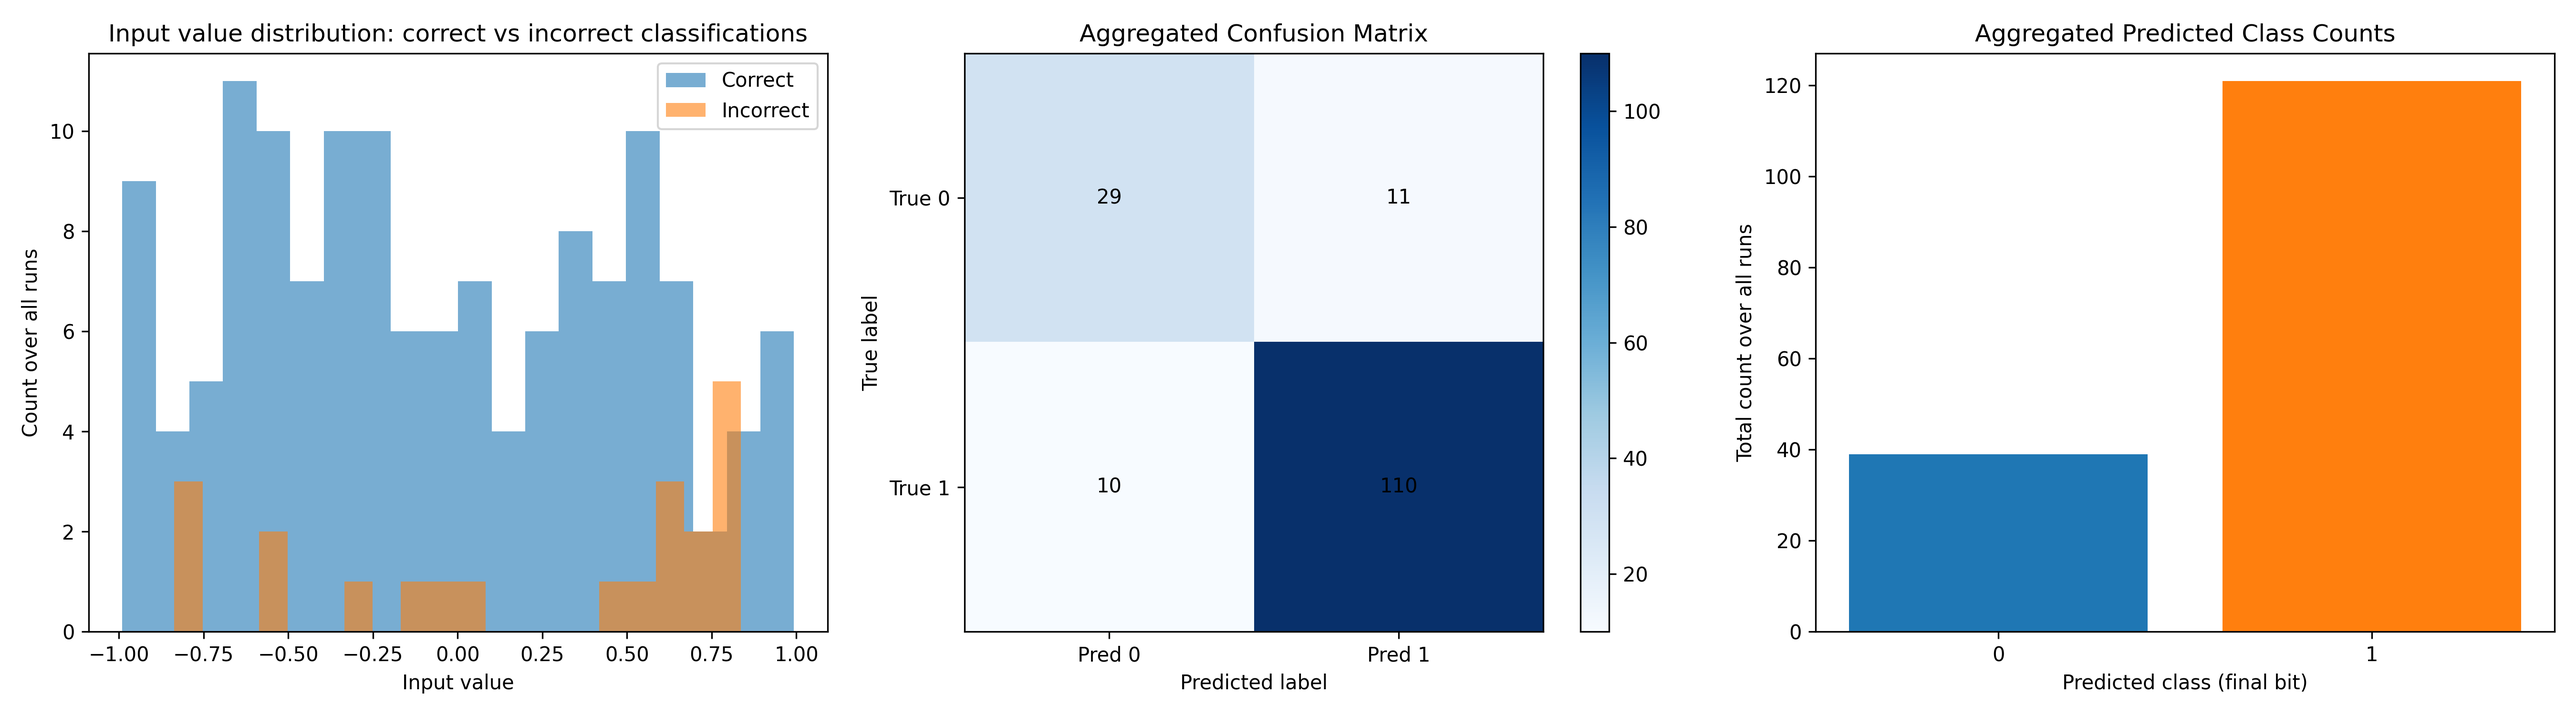
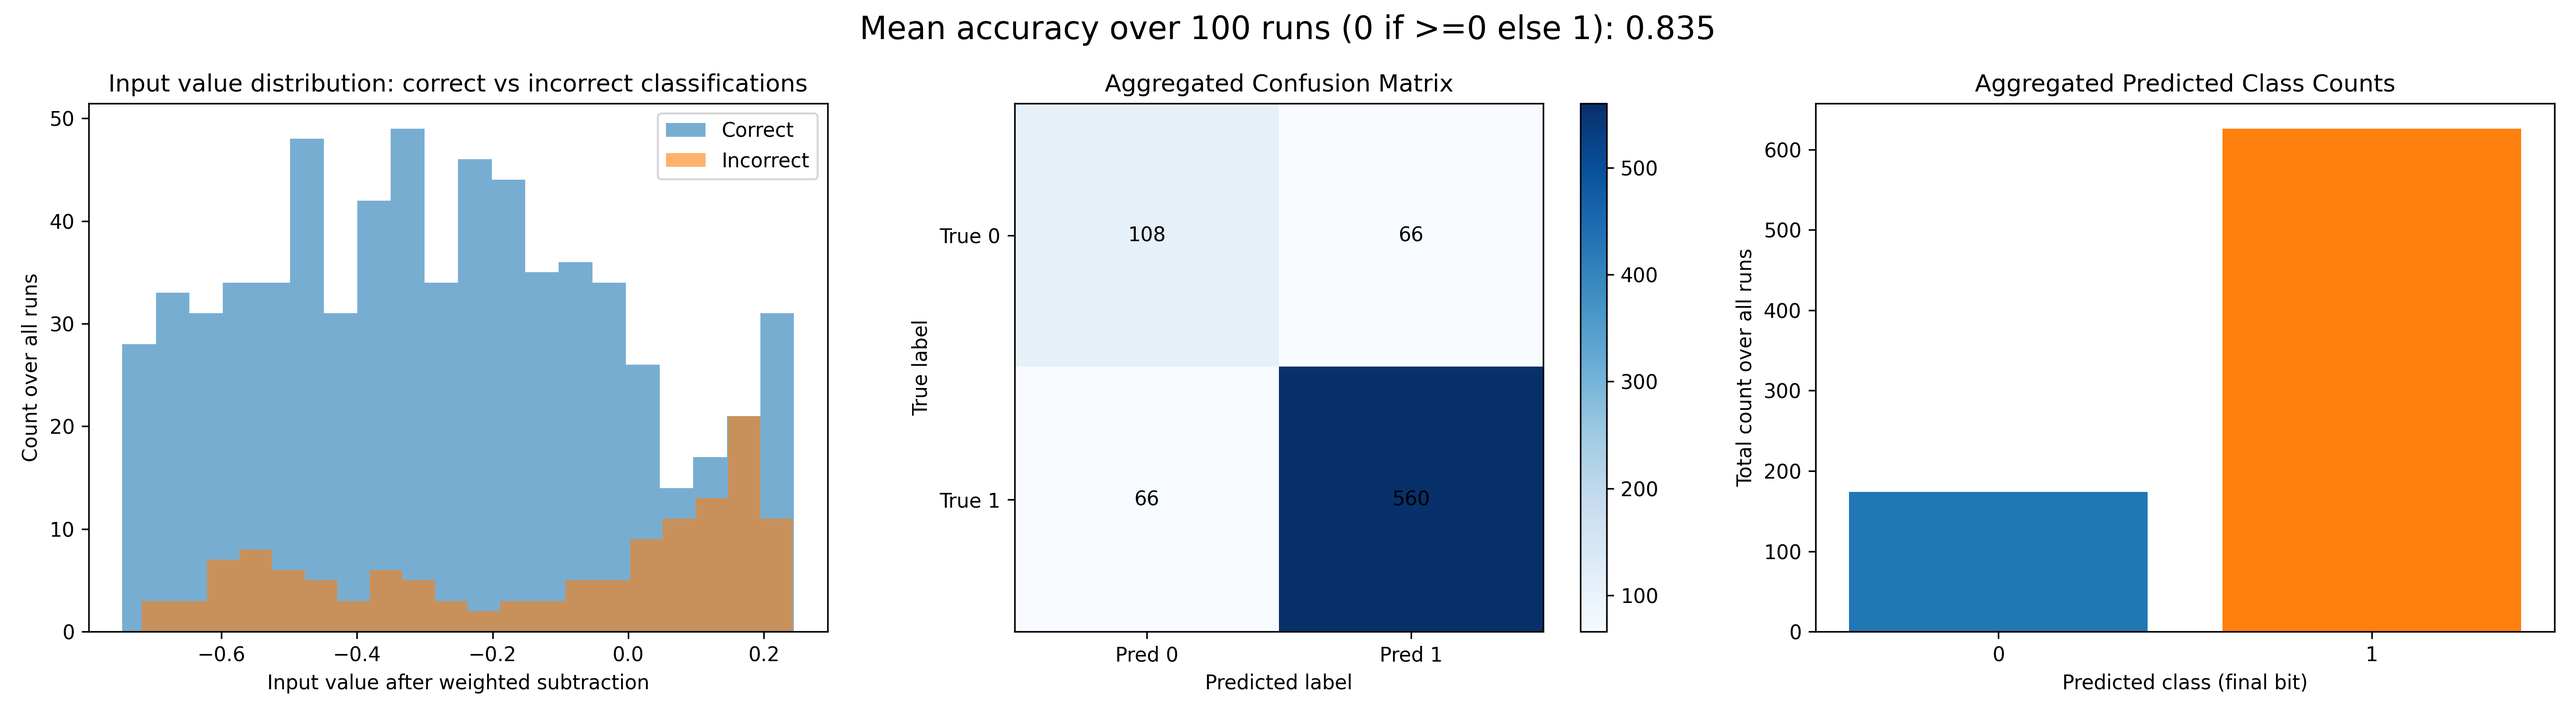
updated outputs

diff --git a/ehands_qcrank_vertex_classification.py b/ehands_qcrank_vertex_classification.py
@@ -323,8 +323,8 @@ class VertexClassifier:
         isolevel before classification.
 
         Weighted subtraction rule:
-          effective = weight * value - (1 - weight) * isolevel
-          class = 0 if effective >= 0 else 1
+          subtraction_val = weight * value - (1 - weight) * isolevel
+          class = 0 if subtraction_val >= 0 else 1
 
         :param pred_classes: array-like of shape (n_data,)
         :return: dict with y_true, y_pred, accuracy, confusion_matrix
@@ -334,8 +334,8 @@ class VertexClassifier:
         # For now, compare against the first data channel/cube.
         # self.di.data_inp shape: (n_data, nq_data, 1)
         vals = self.di.data_inp[:, 0, 0]
-        effective_vals = weight * vals - (1.0 - weight) * self.isovalue
-        y_true = np.where(effective_vals >= 0, 0, 1).astype(int)
+        subtraction_vals = weight * vals - (1.0 - weight) * self.isovalue
+        y_true = np.where(subtraction_vals >= 0, 0, 1).astype(int)
 
         if y_pred.shape[0] != y_true.shape[0]:
             raise ValueError(f"pred_classes length {y_pred.shape[0]} != n_data {y_true.shape[0]}")
@@ -539,7 +539,7 @@ def test_qcrank_ehands_classify(n_cubes, isovalue, weight, reset, sim):
     all_correct_vals = []
     all_incorrect_vals = []
   
-    for _ in range(20):
+    for _ in range(100):
         # initialize data and isovalue arrays
         vc = VertexClassifier(n_cubes, isovalue)
         #vc.init_data(False, data_range=(-1, 0))
@@ -570,20 +570,26 @@ def test_qcrank_ehands_classify(n_cubes, isovalue, weight, reset, sim):
 
         # For every run, print a table of each data point and its classification
         data_vals = vc.di.data_inp[:, 0, 0]
+        # Subtraction value used for the "true" label:
+        #   subtraction_val = weight * input_val - (1 - weight) * isolevel
+        subtraction_vals = weight * data_vals - (1.0 - weight) * vc.isovalue
+
         print("\nPer-data-point classifications")
-        print("+--------+---------------+--------------+----------------+")
-        print("| Index  | Input Value   | True Class   | Pred Class     |")
-        print("+--------+---------------+--------------+----------------+")
-        for idx, (val, y_t, y_p) in enumerate(zip(data_vals, comp["y_true"], comp["y_pred"])):
-            print(f"| {idx:<6d} | {val:<13.6f} | {y_t:<12d} | {y_p:<14d} |")
-        print("+--------+---------------+--------------+----------------+")
+        print("+--------+---------------+------------------+--------------+----------------+")
+        print("| Index  | Input Value   | Subtraction Vals | True Class   | Pred Class     |")
+        print("+--------+---------------+------------------+--------------+----------------+")
+        for idx, (val, sub_val, y_t, y_p) in enumerate(
+            zip(data_vals, subtraction_vals, comp["y_true"], comp["y_pred"])
+        ):
+            print(f"| {idx:<6d} | {val:<13.6f} | {sub_val:<16.6f} | {y_t:<12d} | {y_p:<14d} |")
+        print("+--------+---------------+------------------+--------------+----------------+")
 
         # Also show value ranges where the classifier is correct vs incorrect
         correct_mask = comp["y_true"] == comp["y_pred"]
         incorrect_mask = ~correct_mask
 
         if np.any(correct_mask):
-            correct_vals = data_vals[correct_mask]
+            correct_vals = subtraction_vals[correct_mask]
             all_correct_vals.append(correct_vals)
             print(f"Correct classifications value range: "
                   f"[{correct_vals.min():.6f}, {correct_vals.max():.6f}]")
@@ -591,7 +597,7 @@ def test_qcrank_ehands_classify(n_cubes, isovalue, weight, reset, sim):
             print("No correct classifications in this run.")
 
         if np.any(incorrect_mask):
-            incorrect_vals = data_vals[incorrect_mask]
+            incorrect_vals = subtraction_vals[incorrect_mask]
             all_incorrect_vals.append(incorrect_vals)
             print(f"Incorrect classifications value range: "
                   f"[{incorrect_vals.min():.6f}, {incorrect_vals.max():.6f}]")
@@ -611,6 +617,7 @@ def test_qcrank_ehands_classify(n_cubes, isovalue, weight, reset, sim):
 
     # Plot summaries into a single subplots figure, then save as PNG.
     fig, ax_arr = plt.subplots(1, 3, figsize=(18, 5))
+    fig.suptitle(f"Mean accuracy over {len(acc_list)} runs (0 if >=0 else 1): {mean_acc:.3f}", fontsize=16)
     ax_hist, ax_cm, ax_bar = ax_arr
 
     plot_correct_incorrect_input_histogram(
@@ -670,7 +677,7 @@ def plot_correct_incorrect_input_histogram(all_correct_vals, all_incorrect_vals,
         concat_incorrect = np.concatenate(all_incorrect_vals)
         ax.hist(concat_incorrect, bins=bins, alpha=0.6, label="Incorrect", color="tab:orange")
 
-    ax.set_xlabel("Input value")
+    ax.set_xlabel("Input value after weighted subtraction")
     ax.set_ylabel("Count over all runs")
     ax.set_title("Input value distribution: correct vs incorrect classifications")
     ax.legend()
